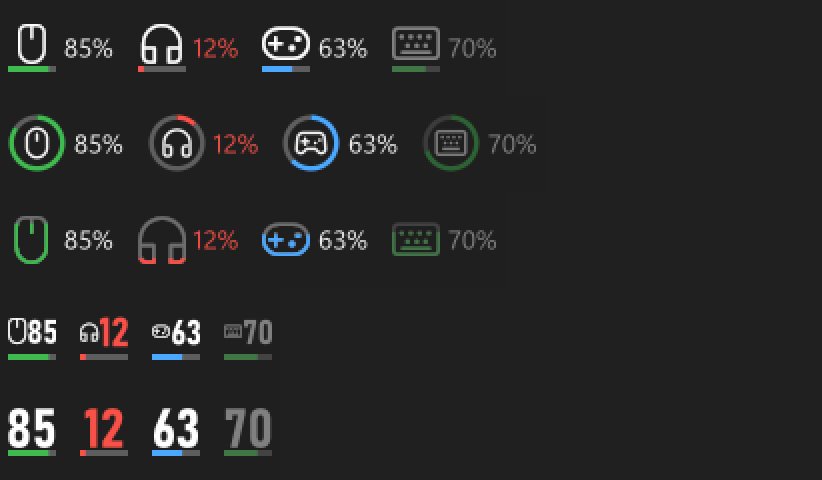
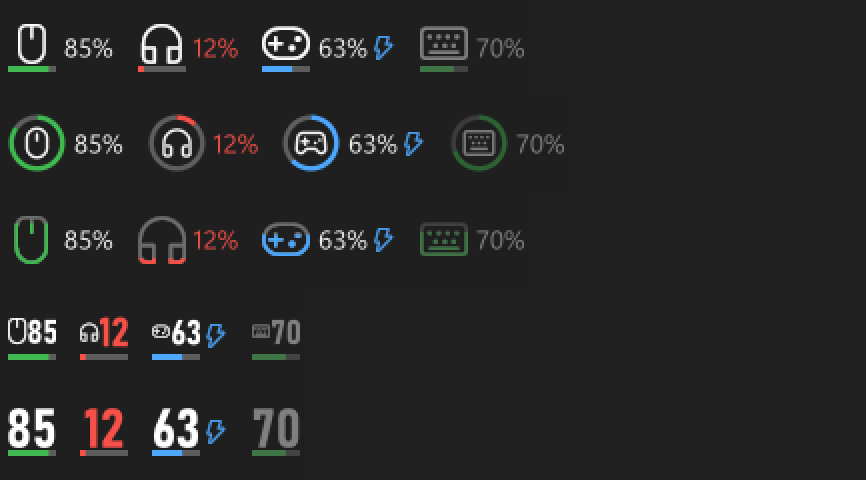
chore(release): 0.3.1 (#6)

diff --git a/src/devices/razer.rs b/src/devices/razer.rs
@@ -1,7 +1,7 @@
 //! Razer wireless mice/keyboards via Razer's 90-byte HID feature report protocol (as documented by OpenRazer).
 //! Battery level: command class 0x07, id 0x80 -> arguments[1] in 0..255. Charging: 0x07/0x84 -> arguments[1].
 
-use std::collections::{HashMap, HashSet};
+use std::collections::HashMap;
 use std::thread::sleep;
 use std::time::Duration;
 
@@ -21,8 +21,20 @@ const TRANSACTION_IDS: [u8; 3] = [0x1F, 0xFF, 0x3F];
 #[derive(Default)]
 pub struct Razer {
     routes: HashMap<u16, (String, u8)>, // pid -> (collection path, transaction id)
-    unsupported: HashSet<u16>,
+    /// Consecutive polls in which a device answered nothing at all (not even "asleep"). After 3 it's only retried
+    /// every 10th poll (e.g. a Razer device without a battery), so a mouse that just got plugged in and wasn't ready
+    /// for the first query is still read on the next poll. Forgotten when the device is unplugged.
+    misses: HashMap<u16, u32>,
+    polls: u32,
     last_known: HashMap<u16, Battery>,
+}
+
+/// What one product id answered.
+enum Answer {
+    Level(u8, bool),
+    /// The dongle is there but the device isn't answering (asleep, off, or on its cable instead).
+    Asleep,
+    Nothing,
 }
 
 impl Provider for Razer {
@@ -38,15 +50,23 @@ impl Provider for Razer {
 
         let mut pids: Vec<u16> = by_pid.keys().copied().collect();
         pids.sort();
+        self.polls = self.polls.wrapping_add(1);
         let mut out = Vec::new();
         for pid in pids {
-            if self.unsupported.contains(&pid) {
+            let misses = self.misses.get(&pid).copied().unwrap_or(0);
+            if misses >= 3 && self.polls % 10 != 0 {
                 continue;
             }
             let collections = &by_pid[&pid];
             let name = collections.iter().find_map(|c| c.product.clone()).unwrap_or_else(|| format!("Razer {pid:04X}"));
-            match self.read(pid, collections) {
-                Some((level, charging)) => {
+            let answer = self.read(pid, collections);
+            if matches!(answer, Answer::Nothing) {
+                self.misses.insert(pid, misses + 1);
+            } else {
+                self.misses.remove(&pid);
+            }
+            match answer {
+                Answer::Level(level, charging) => {
                     let b = Battery {
                         id: format!("razer:{pid:04x}"),
                         kind: guess_kind(&name, Kind::Mouse),
@@ -58,7 +78,7 @@ impl Provider for Razer {
                     self.last_known.insert(pid, b.clone());
                     out.push(b);
                 }
-                None => {
+                Answer::Asleep | Answer::Nothing => {
                     if let Some(last) = self.last_known.get(&pid) {
                         out.push(Battery { stale: true, ..last.clone() });
                     }
@@ -66,20 +86,21 @@ impl Provider for Razer {
             }
         }
         self.last_known.retain(|pid, _| by_pid.contains_key(pid));
+        self.misses.retain(|pid, _| by_pid.contains_key(pid));
         out
     }
 }
 
 impl Razer {
-    fn read(&mut self, pid: u16, collections: &[HidInfo]) -> Option<(u8, bool)> {
+    fn read(&mut self, pid: u16, collections: &[HidInfo]) -> Answer {
         if let Some((path, tx)) = self.routes.get(&pid).cloned() {
             if collections.iter().any(|c| c.path == path) {
                 let (status, level, charging) = query(&path, tx);
                 if status == STATUS_OK {
-                    return Some((level, charging));
+                    return Answer::Level(level, charging);
                 }
                 if status == STATUS_TIMEOUT {
-                    return None;
+                    return Answer::Asleep;
                 }
             }
             self.routes.remove(&pid); // re-plugged or stopped answering: rediscover
@@ -91,7 +112,7 @@ impl Razer {
                 let (status, level, charging) = query(&c.path, tx);
                 if status == STATUS_OK {
                     self.routes.insert(pid, (c.path.clone(), tx));
-                    return Some((level, charging));
+                    return Answer::Level(level, charging);
                 }
                 if status == STATUS_TIMEOUT {
                     // The dongle accepted the request; the device just isn't answering.
@@ -100,11 +121,8 @@ impl Razer {
                 }
             }
         }
-        // Nothing answered and nothing reported "asleep": no battery here (e.g. a microphone).
-        if !saw_timeout {
-            self.unsupported.insert(pid);
-        }
-        None
+        // Nothing answered (a device without a battery, or one still starting up) or only "asleep".
+        if saw_timeout { Answer::Asleep } else { Answer::Nothing }
     }
 }
 

diff --git a/src/devices/mod.rs b/src/devices/mod.rs
@@ -9,7 +9,9 @@ pub mod maxxter;
 pub mod razer;
 pub mod xinput;
 
-#[derive(Clone, Copy, Debug, PartialEq, Eq, PartialOrd, Ord)]
+use std::collections::HashSet;
+
+#[derive(Clone, Copy, Debug, PartialEq, Eq, Hash, PartialOrd, Ord)]
 pub enum Kind {
     Gamepad,
     Mouse,
@@ -53,6 +55,17 @@ pub fn all() -> Vec<Box<dyn Provider>> {
     ]
 }
 
+/// Cleans up one poll's combined results from all providers.
+/// - The same id twice (e.g. via Bluetooth and a dedicated reader): keep the first.
+/// - A device charging on its cable often shows up twice: answering under its cable id, and faded ("asleep", last
+///   known level) under its dongle id. Keep only the live one.
+pub fn merge(all: &mut Vec<Battery>) {
+    let mut seen = HashSet::new();
+    all.retain(|b| seen.insert(b.id.clone()));
+    let live: HashSet<(Kind, String)> = all.iter().filter(|b| !b.stale).map(|b| (b.kind, b.name.clone())).collect();
+    all.retain(|b| !b.stale || !live.contains(&(b.kind, b.name.clone())));
+}
+
 /// Best guess from a product name, for readers that cover many kinds of device.
 pub fn guess_kind(name: &str, fallback: Kind) -> Kind {
     let n = name.to_lowercase();
@@ -88,7 +101,30 @@ pub fn guess_kind(name: &str, fallback: Kind) -> Kind {
 
 #[cfg(test)]
 mod tests {
-    use super::{Kind, guess_kind};
+    use super::{Battery, Kind, guess_kind, merge};
+
+    fn battery(id: &str, stale: bool) -> Battery {
+        Battery {
+            id: id.into(),
+            name: "Razer Viper V3 Pro".into(),
+            kind: Kind::Mouse,
+            percent: 71,
+            charging: !stale,
+            stale,
+        }
+    }
+
+    #[test]
+    fn charging_on_the_cable_hides_the_sleeping_dongle_entry() {
+        let mut all = vec![battery("razer:00c1", true), battery("razer:00c0", false), battery("razer:00c0", false)];
+        merge(&mut all);
+        assert_eq!(all.len(), 1);
+        assert_eq!(all[0].id, "razer:00c0");
+        // A sleeping mouse with no live twin stays (faded).
+        let mut asleep = vec![battery("razer:00c1", true)];
+        merge(&mut asleep);
+        assert_eq!(asleep.len(), 1);
+    }
 
     #[test]
     fn kind_from_product_name() {

diff --git a/src/devices/headsets/mod.rs b/src/devices/headsets/mod.rs
@@ -168,11 +168,11 @@ impl Provider for HeadsetProvider {
                 None => 0,
             };
             let Some(r) = self.read(key, spec, list) else {
-                // Nothing answered (unsupported model, or no battery at all): retry less and less often, up to every
-                // 10 minutes, so devices like wired keyboards don't cost a timeout on every poll.
+                // Nothing answered (still starting up after being plugged in, unsupported model, or no battery at
+                // all): the next poll tries again, then less and less often, up to about every 10 minutes, so devices
+                // like wired keyboards don't cost a timeout on every poll.
                 let m = misses + 1;
-                self.backoff
-                    .insert(key.clone(), (m, Instant::now() + Duration::from_secs(60 * (m * m).min(10) as u64)));
+                self.backoff.insert(key.clone(), (m, Instant::now() + retry_after(m)));
                 continue;
             };
             self.backoff.remove(key);
@@ -195,8 +195,17 @@ impl Provider for HeadsetProvider {
             out.push(Battery { id, name, kind, percent, charging: r.charging, stale: r.asleep });
         }
         self.specs = specs;
+        // Unplugged: start afresh when it comes back (e.g. a headset moved from its dongle to the cable).
+        self.backoff.retain(|k, _| devices.iter().any(|(d, _)| d == k));
         out
     }
+}
+
+/// Back-off after `misses` polls in a row without an answer. A bit under whole minutes, so the 60 s poll that comes
+/// due right after the deadline isn't skipped.
+fn retry_after(misses: u32) -> Duration {
+    let minutes = ((misses - 1) * (misses - 1)).min(10) as u64;
+    Duration::from_secs((60 * minutes).saturating_sub(10))
 }
 
 /// Sends `request` and returns the first reply that satisfies `expected`. If none does before the timeout, falls

diff --git a/src/icon.rs b/src/icon.rs
@@ -355,9 +355,14 @@ pub fn render_widget(items: &[WidgetItem], style: Style, height: usize, scale: f
 
     let label = |it: &WidgetItem| it.percent.filter(|_| with_text).map(|p| format!("{p}%"));
     let font = TEXT_FONT.as_ref();
+    // Charging gets a blue lightning bolt after the number (colour alone is easy to miss next to a full bar).
+    let bolt = (font_px * 0.95).round();
+    let bolt_w = |it: &WidgetItem| if it.charging && ICON_FONT.is_some() { 2.0 * scale + bolt } else { 0.0 };
     let widths: Vec<f32> = items
         .iter()
-        .map(|it| icon as f32 + label(it).map_or(0.0, |t| gap + font.map_or(0.0, |f| text_width(f, &t, font_px))))
+        .map(|it| {
+            icon as f32 + label(it).map_or(0.0, |t| gap + font.map_or(0.0, |f| text_width(f, &t, font_px))) + bolt_w(it)
+        })
         .collect();
     let width = (pad * 2.0 + widths.iter().sum::<f32>() + item_gap * items.len().saturating_sub(1) as f32).ceil();
 
@@ -383,6 +388,13 @@ pub fn render_widget(items: &[WidgetItem], style: Style, height: usize, scale: f
                 if low { LOW } else { fg },
                 alpha,
             );
+        }
+        if it.charging {
+            // Lightning bolt (Segoe Fluent Icons / MDL2 "LightningBolt") at the end of the item.
+            let bx = x + w - bolt;
+            let area = Area { x: bx, y: (height as f32 - bolt) / 2.0, w: bolt, h: bolt };
+            let alpha = if it.stale { 110.0 / 255.0 } else { 1.0 };
+            draw_fitted(&mut c, ICON_FONT.as_ref(), "\u{E945}", area, None, CHARGING, alpha, true);
         }
         x += w + item_gap;
     }

diff --git a/src/devices/maxxter.rs b/src/devices/maxxter.rs
@@ -29,6 +29,7 @@ static SEQUENCE: AtomicU8 = AtomicU8::new(0);
 fn model_name(code: &str) -> String {
     match code {
         "M802" => "Delux M800 Pro".into(),
+        "M620" => "Ajazz AJ159P".into(),       // confirmed on hardware
         _ => format!("Wireless mouse {code}"), // e.g. an AJ159P: see `--probe --verbose` for its code
     }
 }
@@ -174,6 +175,7 @@ mod tests {
     #[test]
     fn names() {
         assert_eq!(model_name("M802"), "Delux M800 Pro");
+        assert_eq!(model_name("M620"), "Ajazz AJ159P");
         assert_eq!(model_name("P631"), "Wireless mouse P631");
     }
 }

diff --git a/src/tray.rs b/src/tray.rs
@@ -250,9 +250,7 @@ impl App {
                     }
                 }
             }
-            // The same device seen twice (e.g. via Bluetooth and a dedicated reader): keep the first.
-            let mut seen = HashSet::new();
-            all.retain(|b| seen.insert(b.id.clone()));
+            crate::devices::merge(&mut all);
             all.sort_by_key(|b| (b.kind, b.name.to_lowercase()));
 
             let ptr = Box::into_raw(Box::new(all));

diff --git a/README.md b/README.md
@@ -14,8 +14,8 @@ on the taskbar. No vendor software needed.
 
 ![The icon in each of its five styles, for several devices and battery levels](assets/icon-styles.png)
 
-The level bar (or ring) is **green** from 50%, **amber** from 20%, **red** below 20%, and **blue** while charging. A
-faded icon means the device is asleep (e.g. an idle mouse) and shows its last known level.
+The level bar (or ring) is **green** from 50%, **amber** from 20%, **red** below 20%, and **blue** while charging (the
+taskbar widget also shows a blue ⚡). A faded icon means the device is asleep (e.g. an idle mouse) and shows its last known level.
 
 - **The icon shows the lowest battery** among your devices (the one that needs attention), so one glance is enough.
   Prefer a specific device? Click the icon → **Icon shows** → pick it.
@@ -106,12 +106,13 @@ log: that's what's needed to fix it.
 
 **Ajazz**: over the 2.4 GHz receiver or the cable
 - AJ179 / AJ179P (dual mode and PAW3950 versions)
-- AJ159P, PAW3950 version ("AJ159P-3950")
+- AJ159P, PAW3950 version ("AJ159P-3950"). Other AJ159P versions: see the `248A:5B2F` receiver below.
 - Tip: these are the Ajazz mice whose official web configurator is *ajazz.xcgaming.net*. Other Ajazz models use
   different protocols, see *Not supported*.
 
-**Mice on the `248A:5B2F` 2.4 GHz receiver**: Delux M800 Pro, and other mice that came with this receiver (e.g. some
-Ajazz AJ159P versions). The app names the mouse by the model code it reports.
+**Mice on the `248A:5B2F` 2.4 GHz receiver**: Ajazz AJ159P (the version that comes with this receiver),
+Delux M800 Pro, and other mice that came with it. The app names the mouse by the model code it reports.
+✅ Ajazz AJ159P
 
 **Bluetooth devices of any brand**
 - Anything whose battery level Windows already shows in *Settings › Bluetooth & devices*: many earbuds and
@@ -204,23 +205,26 @@ cargo test --release --locked
 Device protocols can't be unit-tested without the hardware, so for reader changes also include `--probe --verbose`
 output from a real device.
 
+Pull requests are squash-merged, so the **PR title** becomes the commit message and must follow
+[Conventional Commits](https://www.conventionalcommits.org/) (checked by `.github/workflows/pr-title.yml`):
+`<type>(<optional scope>): <summary>`, e.g. `feat(razer): support the Basilisk V3 Pro`, `fix(widget): clicks on the
+gap between icons`, `docs: device list`. Types: `feat`, `fix`, `perf`, `refactor`, `docs`, `test`, `build`, `ci`,
+`chore`, `revert`, `style`; `!` before the colon marks a breaking change. A version bump is `chore(release): x.y.z`.
+
 ### Making a release
 
 The version lives in `Cargo.toml` and follows [Semantic Versioning](https://semver.org/). To release:
 
 1. Bump `version` in `Cargo.toml` (then `cargo build` to update `Cargo.lock`).
 2. Move the *Unreleased* notes in `CHANGELOG.md` into a new `## [x.y.z] - date` section.
-3. Commit, then tag and push the tag:
+3. Commit on a branch and open a pull request. When it's merged into `main`, GitHub Actions
+   (`.github/workflows/release.yml`) sees the new version, runs the checks, builds x64 and ARM64, creates the tag
+   `vx.y.z` and publishes the release with both exes, their SHA-256 checksums and the changelog section as release
+   notes.
 
-   ```powershell
-   git tag v0.1.0
-   git push origin v0.1.0
-   ```
-
-GitHub Actions (`.github/workflows/release.yml`) then runs the checks, builds x64 and ARM64, and publishes the release
-with both exes, their SHA-256 checksums and the changelog section as release notes. It refuses a tag that doesn't
-match `Cargo.toml` or has no changelog section. To test the build without publishing, run the *Release* workflow
-manually from the Actions tab: the exes are attached to the run instead.
+Merges that don't change the version (fixes still on their way to a release, Dependabot updates) publish nothing.
+A new version without a matching changelog section fails the workflow instead of releasing. To test the build
+without publishing, run the *Release* workflow manually from the Actions tab: the exes are attached to the run instead.
 
 The app icon (`assets/app.ico`) is generated by `python tools/make_icon.py`.
 

diff --git a/CHANGELOG.md b/CHANGELOG.md
@@ -5,6 +5,21 @@ All notable changes to this project are documented here. The format is based on
 
 ## [Unreleased]
 
+## [0.3.1] - 2026-11-17
+
+### Added
+- Taskbar widget: a blue lightning bolt next to the percentage of a charging device (the blue level colour alone was
+  easy to miss).
+
+### Fixed
+- Ajazz AJ159P on the `248A:5B2F` receiver shows as "Ajazz AJ159P" instead of "Wireless mouse M620". Battery level
+  and charging state confirmed on hardware.
+- Razer mice charging on the cable (e.g. Viper V3 Pro) could vanish until the app was restarted: if the mouse didn't
+  answer the first query right after being plugged in, it was treated as a device without a battery for good. It is
+  now asked again on the next poll. Headsets that don't answer right after being plugged in are also retried on the
+  next poll (was: after about 2 minutes, or up to 10 after re-plugging).
+- A device charging on its cable no longer also shows a faded "asleep" entry for its wireless dongle.
+
 ## [0.3.0] - 2026-11-17
 
 ### Added
@@ -50,7 +65,8 @@ First public release.
   - Any Bluetooth device whose battery Windows shows in Settings
 - Diagnostics for bug reports: `--probe --verbose`, `--list-hid`.
 
-[Unreleased]: https://github.com/RobertMRR/Battery-Monitor/compare/v0.3.0...HEAD
+[Unreleased]: https://github.com/RobertMRR/Battery-Monitor/compare/v0.3.1...HEAD
+[0.3.1]: https://github.com/RobertMRR/Battery-Monitor/compare/v0.3.0...v0.3.1
 [0.3.0]: https://github.com/RobertMRR/Battery-Monitor/compare/v0.2.0...v0.3.0
 [0.2.0]: https://github.com/RobertMRR/Battery-Monitor/compare/v0.1.0...v0.2.0
 [0.1.0]: https://github.com/RobertMRR/Battery-Monitor/releases/tag/v0.1.0
